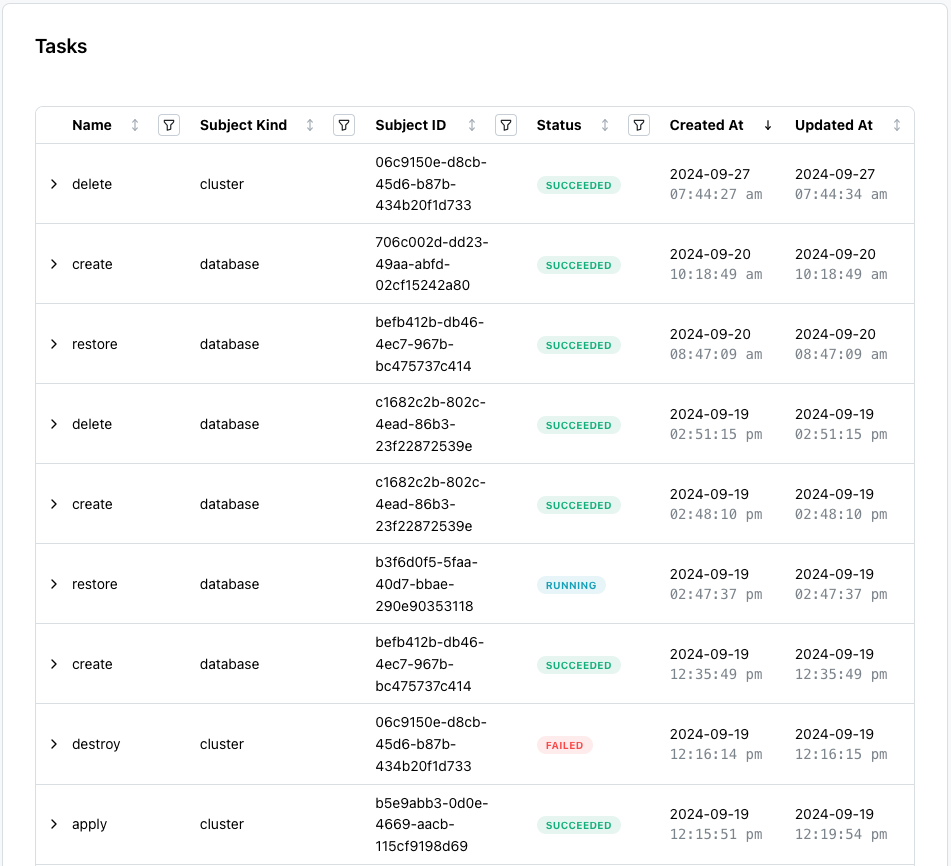
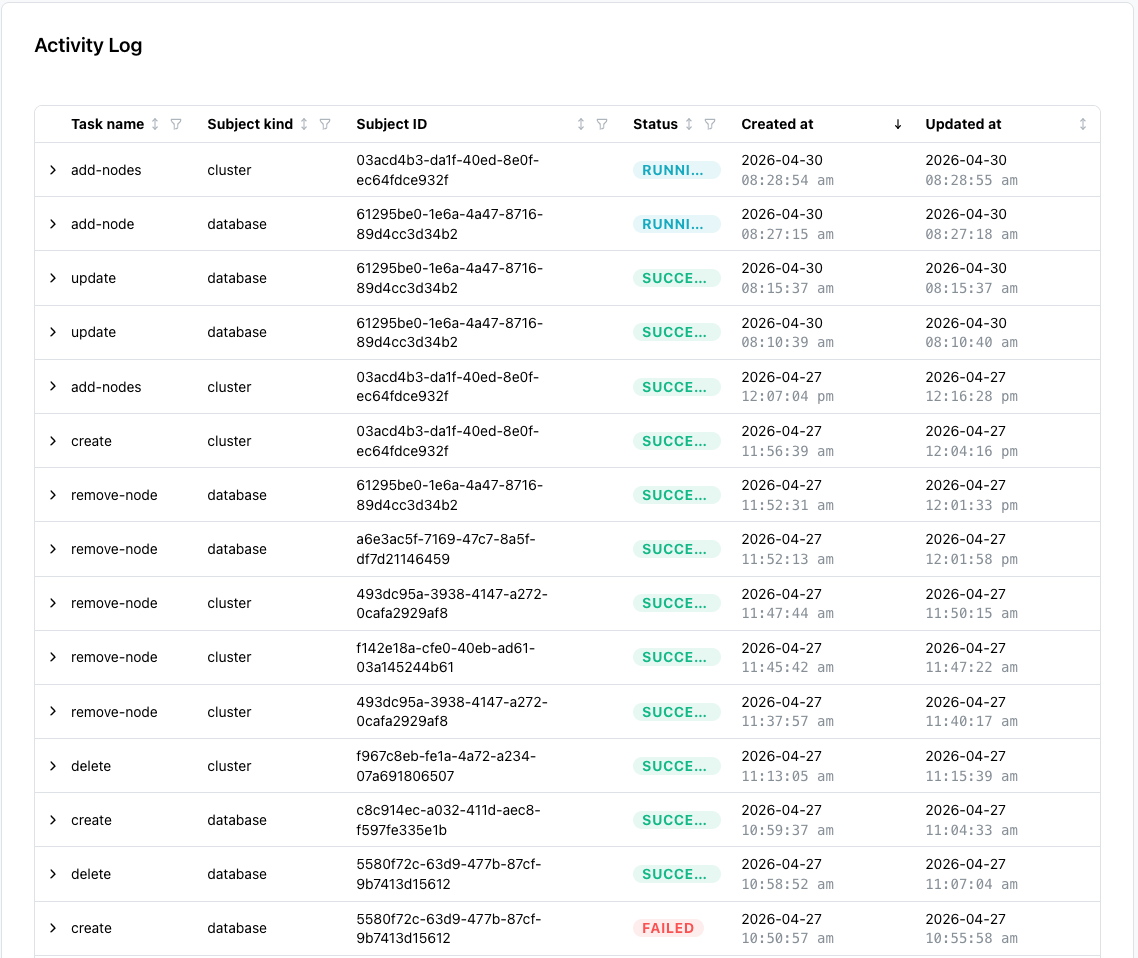
Updates to the Task page to support renaming the page to Activity Log

diff --git a/docs/cloud/tasks.md b/docs/cloud/tasks.md
@@ -1,34 +1,52 @@
-# Reviewing Tasks
+# Reviewing the Activity Log
 
-When you start a database or cluster task (like modifying a configuration or restoring a backup) with the Cloud console, the task is displayed in the table on the `Tasks` page and a task project bar is displayed on the main console dialog for the related object.
+When you start a database or cluster task with the Cloud console, the console
+adds the task to the table on the `Activity Log` page. The Activity Log page 
+organizes Cloud console activity into a table that you can sort and filter.
 
-![Task update](../cloud/images/task_update.png)
+The console also displays a task progress bar on the main console dialog for
+the related database or cluster.
 
-The task progress bar provides information about the task in progress, including the task identifier and duration.  Select the `show details` link to display additional information about the task in progress:
+![Progress bar update](../cloud/images/task_update.png)
+
+The progress bar provides information about the task in progress,
+including the identifier and duration. Select the `show details` link to
+display additional information about the task in progress.
 
 ![Task details](../cloud/images/task_details.png)
 
-Each point on the task bar corresponds to an event detail. To close the task bar, select the `X` in the upper-right corner of the task progress bar.
+Each point on the task bar corresponds to an event detail. To close the task
+bar, select the `X` in the upper-right corner of the task progress bar.
 
-The `Tasks` page organizes Cloud console activity into an easy to understand table that you can organize or sort with filters.
+![Activity Log page](../cloud/images/tasks.png)
 
-![Tasks page](../cloud/images/tasks.png)
+The Activity Log page displays the following columns:
 
-Columns on the `Tasks` dialog display:
+- Task name identifies the type of task for the table entry; values are
+  `create`, `update`, `delete`, `restore`, `backup`,
+  `restore-from-pgdump`, or `restore-from-pgbackrest`.
+- Subject kind identifies the target of the task; values are `database`
+  or `cluster`.
+- Subject ID is the unique identifier of the task.
+- Status indicates the state of the task; values are `running`,
+  `succeeded`, `queued`, or `failed`.
+- Created At is the timestamp at which the task started.
+- Updated At is the timestamp at which the console last updated the task.
 
-* **Task Name** The type of task for the table entry; values are `create`, `update`, `delete`, `restore`, `backup`, `restore-from-pgdump`, `restore-from-pgbackrest`.
-* **Subject Kind** The target of the task; values are `database` or `cluster`.
-* **Subject ID** The unique identifier of the task.
-* **Status** The state of the task; values are `running`, `succeeded`, `queued`, or `failed`.
-* **Created At** The timestamp at which the task started.
-* **Updated At** The timestamp at which the task was updated.
+![Activity Log page](../cloud/images/task_table_detail.png)
 
-Use the page selector in the lower-right corner of the page to navigate through the pages in the table.
+Use the arrow to the left of a `Task name` to expand the task information and
+view details about the selected task.
 
-## Filtering and Sorting the Tasks Table
 
-A drop-down filter icon located next to the column name lists the values for that column that you can sort the table by:
+## Filtering and Sorting the Activity Log
+
+The Activity Log table supports filtering and sorting by column value. A
+drop-down filter icon located next to each column name lists the available
+values for that column.
 
 ![Filtering by task type](../cloud/images/task_filter.png)
 
-Select from the options displayed on the filter drop-down to re-arrange the table, moving the content that includes the selected value to the top.  Use the arrow between the column name and the filter drop-down to reverse the display order of the tables based on that column.
+Select a value from the filter drop-down to re-arrange the table and move
+matching content to the top. Select the arrow between the column name and the
+filter drop-down to reverse the display order based on that column.
